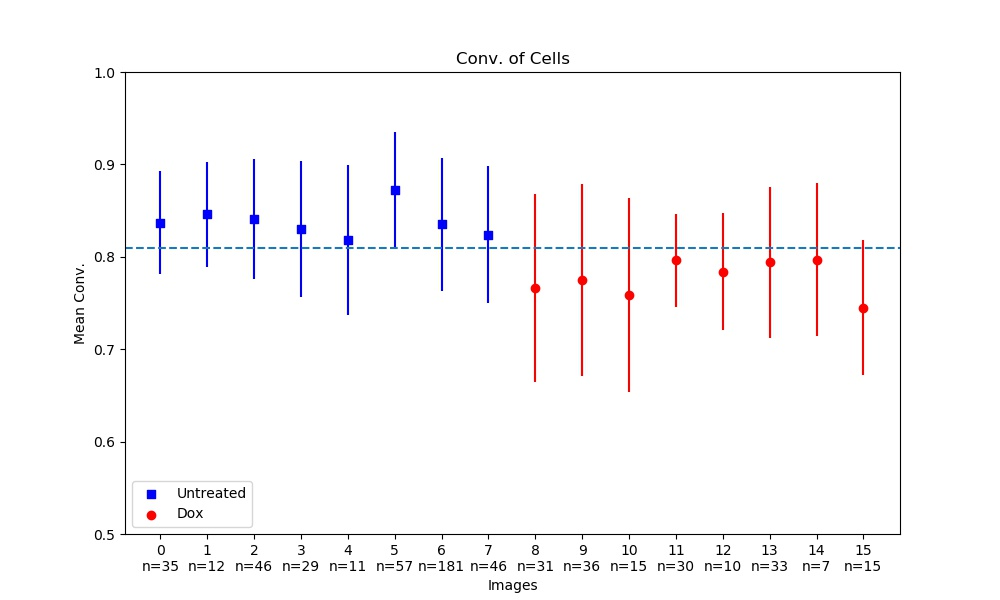
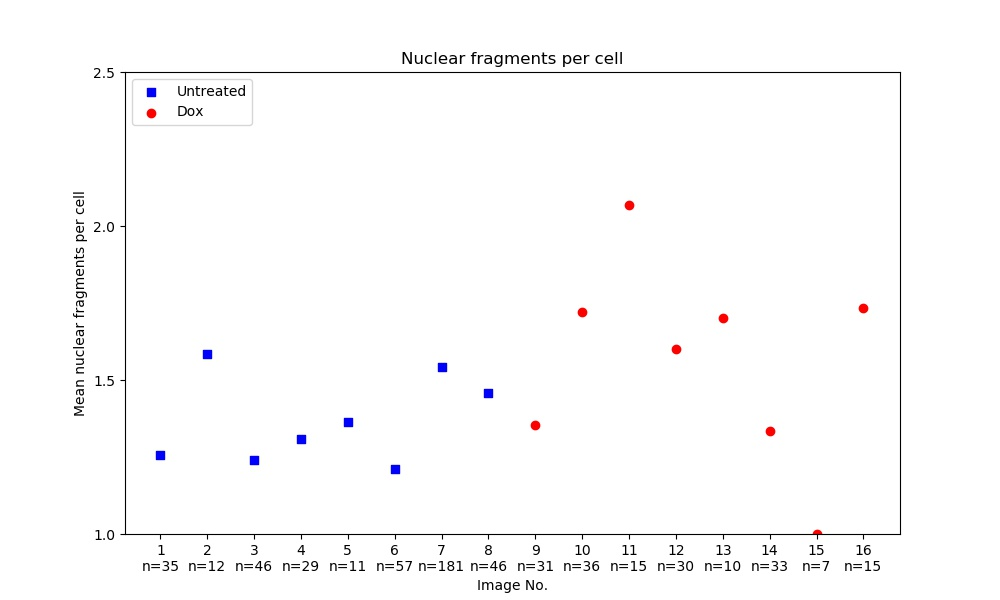
stephen is an idiot

diff --git a/Main/doxSum.py b/Main/doxSum.py
@@ -12,35 +12,35 @@ doxDF = doxDFRaw.loc[doxDFRaw['No. Valid Cells'] != 1]
 untDFRaw = df.loc[df['Image File'].str.contains('unt')]
 untDF = untDFRaw.loc[untDFRaw['No. Valid Cells'] != 1]
 
-quant = 'Conv.'
+quant = 'n'
 
 plt.figure(figsize = (10,6))
-plt.title('%s of Cells'%quant)
-plt.xlabel('Images')
-plt.ylabel('Mean %s'%quant)
-plt.ylim([0.5, 1.0])
-plt.yticks([0.5, 0.6, 0.7, 0.8, 0.9, 1.0])
-plt.axhline(y=0.81, linestyle = '--')
+plt.title('Nuclear fragments per cell')
+plt.xlabel('Image No.')
+plt.ylabel('Mean nuclear fragments per cell')
+plt.ylim([1.0, 2.5])
+plt.yticks(np.arange(1.0, 2.6, 0.5))
+plt.axhline(y=0.45, linestyle = '--')
 
 xListUnt = ["n=%s"%i for i in untDF["No. Valid Cells"].values.astype('int')]
 for i in range(len(xListUnt)):
-	xListUnt[i] = "%s\n%s"%(i, xListUnt[i])
+	xListUnt[i] = "%s\n%s"%(i+1, xListUnt[i])
 yListUnt = untDF['%s Mean'%quant].values.astype('float')
-yErrUnt = untDF['%s SD'%quant].values.astype('float')
+#yErrUnt = untDF['%s SD'%quant].values.astype('float')
 
 plt.scatter(xListUnt, yListUnt, color = 'blue', marker = 's', label = 'Untreated')
-plt.errorbar(xListUnt, yListUnt, yerr = yErrUnt, color = 'blue', linestyle = "None")
+#plt.errorbar(xListUnt, yListUnt, yerr = yErrUnt, color = 'blue', linestyle = "None")
 
 xListDox = ["n=%s"%i for i in doxDF["No. Valid Cells"].values.astype('int')]
 for i in range(len(xListDox)):
-	xListDox[i] = "%s\n%s"%(i+len(xListUnt),xListDox[i])
+	xListDox[i] = "%s\n%s"%(i+1+len(xListUnt),xListDox[i])
 yListDox = doxDF['%s Mean'%quant].values.astype('float')
-yErrDox = doxDF['%s SD'%quant].values.astype('float')
+#yErrDox = doxDF['%s SD'%quant].values.astype('float')
 
 plt.scatter(xListDox, yListDox, color = 'red', marker = 'o', label = 'Dox')
-plt.errorbar(xListDox, yListDox, yerr = yErrDox, color = 'red', linestyle = "None")
+#plt.errorbar(xListDox, yListDox, yerr = yErrDox, color = 'red', linestyle = "None")
 
-plt.legend(loc='lower left')
+plt.legend(loc='upper left')
 plt.savefig('testStatScatter.jpg')
 plt.close()
 

diff --git a/Main/mainScript.py b/Main/mainScript.py
@@ -61,6 +61,7 @@ for imageFile in dirs:
 	totCellArea = 0
 	totNucArea = 0
 	validCells = 0
+	totNucCount = 0
 
 	#iterate through contours and isolate
 	for i in range(len(cellCon)):
@@ -142,6 +143,7 @@ for imageFile in dirs:
 				if n>0:
 					cellData.append([name, cellArea, round(locTotNucArea/cellArea, 3), n])
 					totNucArea += locTotNucArea
+					totNucCount += n
 
 	#saving stats as CSVs
 	if len(nucData) > 0:
@@ -159,8 +161,10 @@ for imageFile in dirs:
 	nucConvMean = round(np.mean(nucDF['Convexity'].values.astype('float')[nucDF['Area Fraction'].values.astype('float') > 0.1]), 3)
 	nucConvSD = round(np.std(nucDF['Convexity'].values.astype('float')[nucDF['Area Fraction'].values.astype('float') > 0.1]), 3)
 
+	nucCountMean = round(totNucCount/validCells, 3)
+
 	#saving whole image data
-	imageData.append([imageFile, len(cellCon), validCells, round(totNucArea/totCellArea, 3), nucCircMean, nucCircSD, nucConvMean, nucConvSD])
+	imageData.append([imageFile, len(cellCon), validCells, round(totNucArea/totCellArea, 3), nucCircMean, nucCircSD, nucConvMean, nucConvSD, nucCountMean])
 
 	#plotting some scatterplots
 	xQuant = 'Convexity'
@@ -176,7 +180,7 @@ for imageFile in dirs:
 	plt.savefig('%s/testScatter.jpg'%outputDir)
 	plt.close()
 
-imgDF = pd.DataFrame(np.array(imageData), columns = ["Image File", "No. Cells", "No. Valid Cells", "Nuc. Area Frac.", "Circ. Mean", "Circ. SD", "Conv. Mean", "Conv. SD"])
+imgDF = pd.DataFrame(np.array(imageData), columns = ["Image File", "No. Cells", "No. Valid Cells", "Nuc. Area Frac.", "Circ. Mean", "Circ. SD", "Conv. Mean", "Conv. SD", "n Mean"])
 imgDF.to_csv('output/imageStats.csv')
 
 print("Done")
